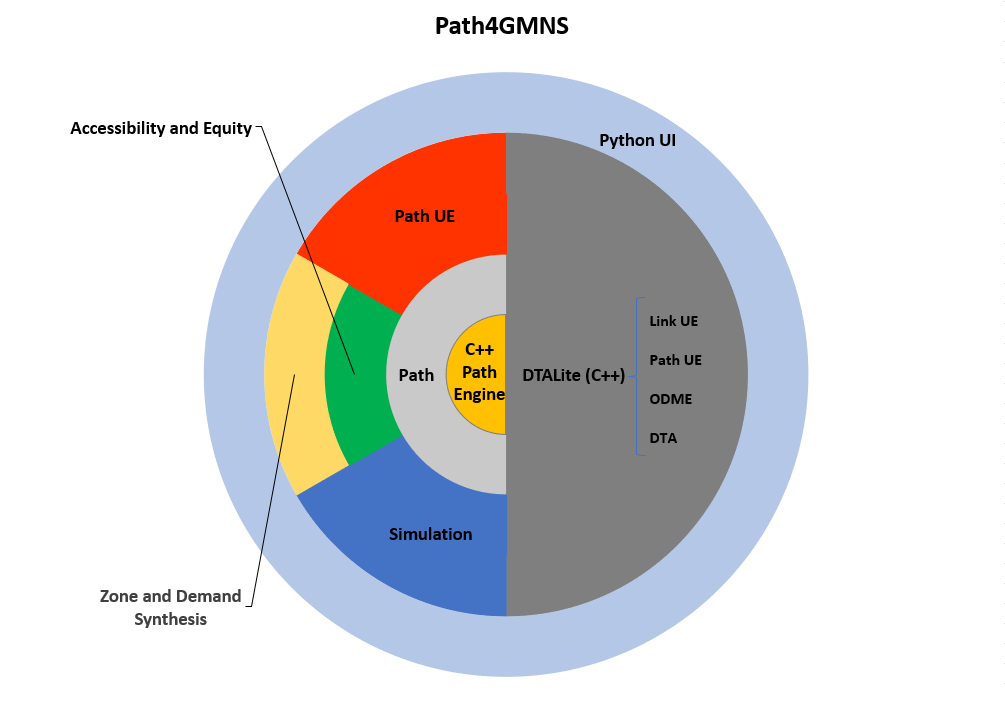
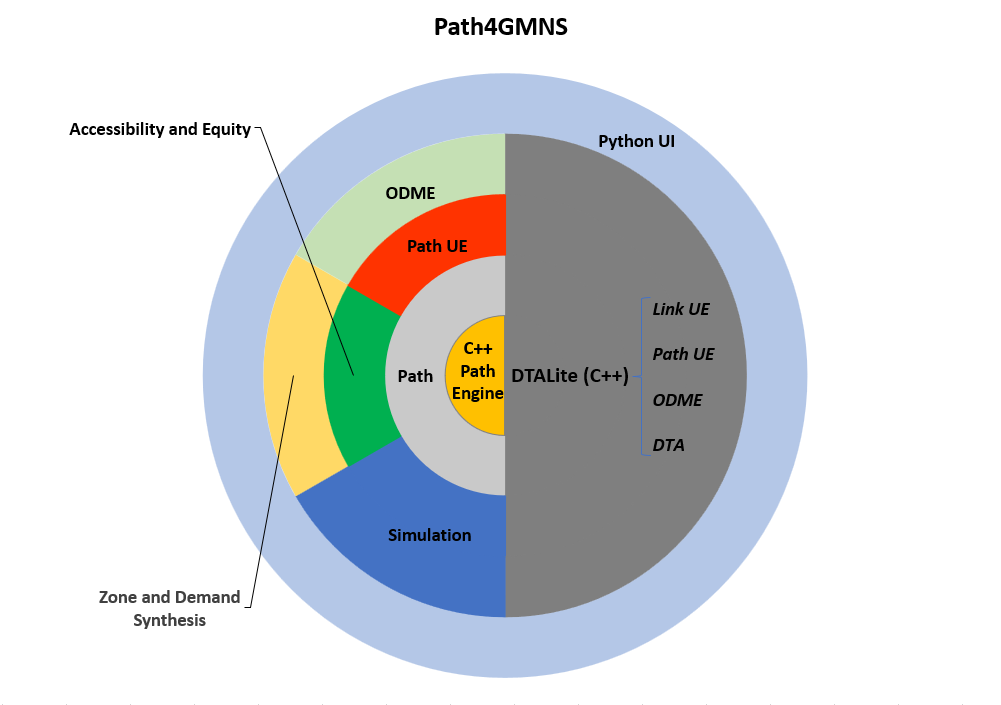
include module utils in __init__.py
- update url of sample settings.yml in download_sample_setting_file();
- uninstall first before installing for targets pypi_install and regular_install;
- rename target full_clean to clean_cache;
- remove run_DTALite() from tutorial;
- update architecture.png and README;
- update index.rst.

diff --git a/path4gmns/utils.py b/path4gmns/utils.py
@@ -1,6 +1,6 @@
 import os
-import threading
 from datetime import timedelta
+from threading import Thread
 
 
 __all__ = ['download_sample_data_sets', 'download_sample_setting_file']
@@ -202,7 +202,7 @@ def download_sample_data_sets():
         # multi-threading
         threads = []
         for x in files:
-            t = threading.Thread(
+            t = Thread(
                 target=_download_url,
                 args=(web_dir+x, x, loc_sub_dir)
             )
@@ -218,7 +218,7 @@ def download_sample_data_sets():
 
 def download_sample_setting_file():
     """ download the sample settings.yml from the Github repo """
-    url = 'https://raw.githubusercontent.com/jdlph/Path4GMNS/dev/tests/settings.yml'
+    url = 'https://raw.githubusercontent.com/jdlph/Path4GMNS/master/data/Chicago_Sketch/settings.yml'
     filename = 'settings.yml'
     loc_dir = './'
 

diff --git a/path4gmns/__init__.py b/path4gmns/__init__.py
@@ -4,6 +4,7 @@ from .dtaapi import *
 from .io import *
 from .odme import *
 from .simulation import *
+from .utils import *
 from .zonesyn import *
 
 

diff --git a/README.md b/README.md
@@ -9,40 +9,48 @@ Path4GMNS is an open-source, cross-platform, lightweight, and fast Python path e
 2. performing path-based User-Equilibrium (UE) traffic assignment,
 3. conducting dynamic traffic assignment (DTA) after UE.
 4. evaluating multimodal accessibility and equity,
-5. synthesizing zones and Origin-Destination (OD) demand for a given network.
+5. making the Origin-Destination (OD) demand matrix estimation (ODME),
+6. synthesizing zones and Origin-Destination (OD) demand.
 
 Path4GMNS also serves as an API to the C++-based [DTALite](https://github.com/jdlph/DTALite) to conduct various multimodal traffic assignments including,
    * Link-based UE,
    * Path-based UE,
    * UE + DTA,
-   * OD Matrix Estimation (ODME).
+   * ODME.
 
 ![Architecture](/docs/source/imgs/architecture.png)
 
 ## Quick Start
 
 1. **[Tutorial](https://github.com/jdlph/Path4GMNS/blob/master/tutorial/tutorial.ipynb)** written in Jupyter notebook with step-by-step demonstration.
-2. **[Documentation](https://path4gmns.readthedocs.io/en/latest/)** on Installation, Use Cases, Public API, and more.
+2. **[Documentation](https://path4gmns.readthedocs.io/en/stable/)** on Installation, Use Cases, Public API, and more.
 3. **[TransOMS](https://github.com/jdlph/TransOMS)** on the C++ equivalent.
 
-We highly recommend that you go through the above [Tutorial](https://github.com/jdlph/Path4GMNS/tree/dev/tutorial/tutorial.ipynb), no matter you are one of the existing users or new to Path4GMNS.
+We highly recommend that you go through the above [Tutorial](https://github.com/jdlph/Path4GMNS/blob/master/tutorial/tutorial.ipynb), no matter you are one of the existing users or new to Path4GMNS.
 
 ## Installation
-Path4GMNS has been published on [PyPI](https://pypi.org/project/path4gmns/0.9.8/), and can be installed using
+Path4GMNS has been published on [PyPI](https://pypi.org/project/path4gmns/0.9.9/), and can be installed using
 ```
 $ pip install path4gmns
 ```
 
-v0.9.8 fixes issues regarding accessibility output and run_DTALite(). Please **update to or install the latest version** and **discard all old versions**.
+> [!NOTE]
+> ODME is available with v0.9.9.
 
-> [!WARNING]
-> Any versions prior to v0.9.4 will generate INCORRECT simulation results.
+> [!IMPORTANT]
+v0.9.9 comes with bug fixes, new functionality, and performance improvement. Please **discard all old versions**.
 
-> [!WARNING]
+> [!CAUTION]
+> Any version prior to v0.9.4 will generate INCORRECT simulation results.
+
+> [!CAUTION]
 > Calling DTALite and synthesizing zones and OD demand are not functioning for [v0.9.5 and v0.9.6](https://github.com/jdlph/Path4GMNS/issues/41).
 
+> [!CAUTION]
+> Zone and demand synthesis is problematic for any version before v0.9.9.
+
 ### Dependency
-The Python modules are written in **Python 3.x**, which is the minimum requirement to explore the most of Path4GMNS. Some of its functions require further run-time support, which we will go through along with the corresponding **[Use Cases](https://path4gmns.readthedocs.io/en/latest/)**.
+The Python modules are written in **Python 3.x**, which is the minimum requirement to explore the most of Path4GMNS. Some of its functions require further run-time support, which we will go through along with the corresponding **[Use Cases](https://path4gmns.readthedocs.io/en/stable/)**.
 
 ## How to Cite
 

diff --git a/docs/source/index.rst b/docs/source/index.rst
@@ -18,8 +18,8 @@ Path4GMNS supports, in short,
 2. performing path-based User-Equilibrium (UE) traffic assignment,
 3. conducting dynamic traffic assignment (DTA) after UE.
 4. evaluating multimodal accessibility and equity,
-5. making the Origin-Destination (OD) demand matrix estimation (ODME) for a given network,
-6. [Deprecated] synthesizing zones and Origin-Destination (OD) demand for a given network.
+5. making the Origin-Destination (OD) demand matrix estimation (ODME),
+6. synthesizing zones and Origin-Destination (OD) demand.
 
 Path4GMNS also serves as an API to the C++-based
 `DTALite <https://github.com/jdlph/DTALite>`_ to conduct various multimodal
@@ -37,7 +37,7 @@ Quick Start
 -----------
 
 We highly recommend that you go through
-`this tutorial <https://github.com/jdlph/Path4GMNS/blob/dev/tutorial/tutorial.ipynb>`_
+`this tutorial <https://github.com/jdlph/Path4GMNS/blob/master/tutorial/tutorial.ipynb>`_
 written in Jupyter notebook with step-by-step demonstration using the latest
 version, no matter you are one of the existing users or new to Path4GMNS.
 
